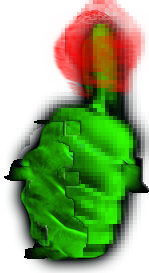
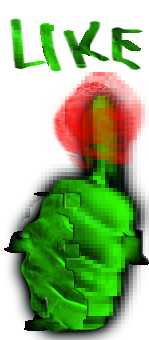
more style finessing

diff --git a/EVIL/css/style.css b/EVIL/css/style.css
@@ -52,7 +52,60 @@
   filter:saturate(100%);
 }
 
+@-webkit-keyframes flip {
+  from {
+    -webkit-transform: perspective(400px) scale3d(1, 1, 1) translate3d(0, 0, 0)
+      rotate3d(0, 1, 0, -360deg);
+    transform: perspective(400px) scale3d(1, 1, 1) translate3d(0, 0, 0) rotate3d(0, 1, 0, -360deg);
+    -webkit-animation-timing-function: ease-out;
+    animation-timing-function: ease-out;
+  }
 
+  40% {
+    -webkit-transform: perspective(400px) scale3d(1, 1, 1) translate3d(0, 0, 150px)
+      rotate3d(0, 1, 0, -190deg);
+    transform: perspective(400px) scale3d(1, 1, 1) translate3d(0, 0, 150px)
+      rotate3d(0, 1, 0, -190deg);
+    -webkit-animation-timing-function: ease-out;
+    animation-timing-function: ease-out;
+  }
+
+  50% {
+    -webkit-transform: perspective(400px) scale3d(1, 1, 1) translate3d(0, 0, 150px)
+      rotate3d(0, 1, 0, -170deg);
+    transform: perspective(400px) scale3d(1, 1, 1) translate3d(0, 0, 150px)
+      rotate3d(0, 1, 0, -170deg);
+    -webkit-animation-timing-function: ease-in;
+    animation-timing-function: ease-in;
+  }
+
+  80% {
+    -webkit-transform: perspective(400px) scale3d(0.95, 0.95, 0.95) translate3d(0, 0, 0)
+      rotate3d(0, 1, 0, 0deg);
+    transform: perspective(400px) scale3d(0.95, 0.95, 0.95) translate3d(0, 0, 0)
+      rotate3d(0, 1, 0, 0deg);
+    -webkit-animation-timing-function: ease-in;
+    animation-timing-function: ease-in;
+  }
+
+  to {
+    -webkit-transform: perspective(400px) scale3d(1, 1, 1) translate3d(0, 0, 0)
+      rotate3d(0, 1, 0, 0deg);
+    transform: perspective(400px) scale3d(1, 1, 1) translate3d(0, 0, 0) rotate3d(0, 1, 0, 0deg);
+    -webkit-animation-timing-function: ease-in;
+    animation-timing-function: ease-in;
+  }
+}
+
+@keyframes zoink {
+	0% {
+		transform: translate(0px,0);
+	}
+
+	100% {
+		transform: translate(5000px, 0);
+	}
+}
 #homepage {
   background: black;
 
@@ -90,7 +143,7 @@
   opacity: 0;
   z-index: 300;
   margin-left: 100px;
-  animation: mackeeper 1s infinite linear;
+  animation: flip 1s infinite linear;
   position: fixed;
 }
 
@@ -105,13 +158,32 @@
 
 }
 
+#uzi {
+  opacity: 0;
+  margin-left: 70%;
+  margin-top: 25%;
+  z-index: 3000;
+	transform: scale(1.5);
+    position:fixed;
+
+}
+
+#uzi:hover {
+	animation: flip 6s infinite linear;
+}
 #eyes {
   opacity: 0;
   z-index: 2000;
+	margin-left: 20%;
+	margin-top: 30%;
     position:absolute;
-      animation: roach 3s infinite linear;
-
+    animation: mackeeper 1s infinite linear;
 }
+
+#eyes:hover{
+	    animation: zoink 1s infinite linear;
+}
+
 #demons {
 margin-top: 36%;
 margin-left: 80%;
@@ -146,6 +218,19 @@ position: absolute;
   transition: visibility 0s 0.5s, opacity 0.5s linear;
 }
 
+#play{
+	position:fixed;
+	left:45%;
+	top: 30%;
+	z-index: 4000;
+	opacity: 0.5;
+}
+
+#play:hover {
+
+	transform:scale(1.1);
+	opacity: 1;
+}
 video {
   position:fixed;
   margin-left:10%;

diff --git a/EVIL/video.html b/EVIL/video.html
@@ -1,0 +1,65 @@
+<!DOCTYPE html>
+<html>
+<head>
+  <meta charset="utf-8">
+  <meta name="viewport" width=device-width, initial-scale=1.0, maximum-scale=1.0, user-scalable=0>
+
+  <!-- CSS stylesheet(s) -->
+  <link rel="stylesheet" type="text/css" href="css/style.css" />
+
+  <!-- Libraries -->
+  <script
+  src="https://code.jquery.com/jquery-3.3.1.min.js"
+  integrity="sha256-FgpCb/KJQlLNfOu91ta32o/NMZxltwRo8QtmkMRdAu8="
+  crossorigin="anonymous"></script>
+
+  <link rel="stylesheet" type="text/css" href="https://code.jquery.com/ui/1.12.1/themes/base/jquery-ui.css" />
+  <script
+  src="https://code.jquery.com/ui/1.12.1/jquery-ui.min.js"
+  integrity="sha256-VazP97ZCwtekAsvgPBSUwPFKdrwD3unUfSGVYrahUqU="
+  crossorigin="anonymous"></script>
+
+
+
+  <script src="js/script.js"></script>
+</head>
+
+
+
+
+
+
+<body>
+  <!-- Images that will be manipulated via jQuery and jQueryUI -->
+<div id="hideme">
+  <img id="thumbsup" src="assets/images/thumbsup.png">
+  <img id="thumbsdown" src="assets/images/thumbsdown.png">
+  <img id="play" src="assets/images/play.png" alt="">
+  <img id="clorox" src="assets/images/clorox2.png" alt="">
+  <img id="mackeeper" src="assets/images/mackeeper.png">
+  <img id="eyes" src="assets/images/fatalerror.png" alt=""/>
+  <img id="demons" src="assets/images/flygif.gif" alt=""/>
+<img id="uzi" src="assets/images/uzirotate.gif" alt=""/>
+</div>
+<div id="videos">
+
+  <video class="visible" loop width="80%" height="80%" >
+  <source src="assets/videos/busytown10.mp4" type=""></video>
+
+  <video class="visible" loop width="80%" height="80%" >
+  <source src="assets/videos/busytown99.mp4" type=""></video>
+
+  <video class="visible" loop width="80%" height="80%" >
+  <source src="assets/videos/busytown8.mp4" type=""></video>
+
+  <video class="visible" loop width="80%" height="80%" >
+  <source src="assets/videos/busytown1_1redux.mp4" type=""></video>
+
+  <video id="test" class="visible" loop width="80%" height="80%" >
+  <source src="assets/videos/busytown1.mp4" type=""></video>
+
+</div>
+
+</body>
+
+</html>

diff --git a/EVIL/js/script.js b/EVIL/js/script.js
@@ -28,10 +28,12 @@ let $eyes;
 let $demons;
 let $mackeeper;
 let $currentImage;
-let images = ['#mackeeper', '#clorox', '#eyes', '#demons'];
+let images = ['#mackeeper', '#clorox', '#eyes', '#demons','#uzi'];
 let $fuck;
 let $like;
 let $clorox;
+let $uzi;
+let $play;
 
 $(document).ready(setup);
 
@@ -45,7 +47,7 @@ $(document).ready(setup);
 
 function setup() {
 
-  $(document).on('click',function () {
+  $('#play').on('click',function () {
     $('video').each(function () {
       $(this).get(0).play();
     });
@@ -67,6 +69,12 @@ function setup() {
 ///telling the program to use my secret mouseover function on mouseover
   $video = $('video');
 
+$play = $('#play');
+
+$('#play').click(function(){
+  $play.remove();
+});
+
   $( "#mackeeper" ).draggable();
 
     $( "#clorox" ).draggable();
@@ -83,13 +91,15 @@ let currentImageId = images[Math.floor(Math.random()*images.length)];
 $fuck = $('#fuck');
 $like = $('#like');
 $clorox = $('#clorox');
+$uzi = $('#uzi');
 $like.on('mouseover',wordSwap);
 $like.on('mouseout',text);
 $fuck.on('mouseover', wordSwap2);
 $fuck.on('mouseout', text2);
 $clorox.on('mouseover',bleachSwap);
 $clorox.on('mouseout',bleachReverse);
-
+$uzi.on ('mouseover',uziSwap);
+$uzi.on('mouseout',uziReverse);
 }
 
 
@@ -142,6 +152,7 @@ function thumbsdownClicked(){
 let currentImageId = images[Math.floor(Math.random()*images.length)];
 
        //
+       $(currentImageId).append('body');
        $(currentImageId).css("opacity", 1);
        $(currentImageId).addClass( "visible2" );
 
@@ -177,4 +188,14 @@ $(clorox).attr("src","assets/images/bleachcup.png");
 function bleachReverse() {
 console.log("hello");
 $(clorox).attr("src","assets/images/clorox2.png");
+}
+
+function uziSwap() {
+console.log("hello");
+$(uzi).attr("src","assets/images/explosionlaptop.gif");
+}
+
+function uziReverse() {
+console.log("hello");
+$(uzi).attr("src","assets/images/uzirotate.gif");
 }

diff --git a/EVIL/index.html b/EVIL/index.html
@@ -1,3 +1,4 @@
+
 <!DOCTYPE html>
 <html>
 <head>
@@ -5,7 +6,7 @@
   <meta name="viewport" width=device-width, initial-scale=1.0, maximum-scale=1.0, user-scalable=0>
 
   <!-- CSS stylesheet(s) -->
-  <link rel="stylesheet" type="text/css" href="css/style.css" />
+  <link rel="stylesheet" type="text/css" href="css/style2.css" />
 
   <!-- Libraries -->
   <script
@@ -24,41 +25,12 @@
   <script src="js/script.js"></script>
 </head>
 
+  <body>
+  <a href="video.html">
+<h1 id="FUCKYOU">BRAIN DETERGENT</h1>
+<h2 id="LIKEME"><span id="like">CLICK</span> TO BEGIN</h2>
+</a>
 
-
-
-
-
-<body>
-  <!-- Images that will be manipulated via jQuery and jQueryUI -->
-  <img id="thumbsup" src="assets/images/thumbsup.png">
-  <img id="thumbsdown" src="assets/images/thumbsdown.png">
-
-  <img id="clorox" src="assets/images/clorox2.png" alt="">
-  <img id="mackeeper" src="assets/images/mackeeper.png">
-  <img id="eyes" src="assets/images/roach.gif" alt=""/>
-    <img id="demons" src="assets/images/flygif.gif" alt=""/>
-
-
-<div id="videos">
-
-  <video class="visible" loop width="80%" height="80%" >
-  <source src="assets/videos/busytown10.mp4" type=""></video>
-
-  <video class="visible" loop width="80%" height="80%" >
-  <source src="assets/videos/busytown99.mp4" type=""></video>
-
-  <video class="visible" loop width="80%" height="80%" >
-  <source src="assets/videos/busytown8.mp4" type=""></video>
-
-  <video class="visible" loop width="80%" height="80%" >
-  <source src="assets/videos/busytown1_1redux.mp4" type=""></video>
-
-  <video id="test" class="visible" loop width="80%" height="80%" >
-  <source src="assets/videos/busytown1.mp4" type=""></video>
-
-</div>
-
-</body>
-
+<a href="video.html"> <img src="assets/images/braincollapse.gif" alt=""></a>
+  </body>
 </html>

diff --git a/EVIL/css/style2.css b/EVIL/css/style2.css
@@ -5,27 +5,45 @@ body{
 
 h1 {
   font-family: "Kids";
-  font-size: 200px;
+  font-size: 150px;
   text-align: center;
+  color: white;
+  text-decoration: none;
 }
 
 
 h2{
   font-family: "Kids";
-  font-size: 200px;
+  font-size: 150px;
   text-align: center;
+  color: white;
+  text-decoration: none;
 
 }
 
 h3{
   font-family: "Kids";
-  font-size: 100px;
+  font-size: 150px;
   text-align: center;
-
+  color: white;
+  text-decoration: none;
 
 }
 
+a{
+  text-decoration: none;
+}
 @font-face {
   font-family: "Kids";
   src: url("../assets/fonts/Kid_Font_.ttf") format("truetype");
+}
+
+img{
+  left: 43%;
+  position: absolute;
+  top: 65%;
+}
+
+img:hover{
+  transform: scale(1.5);
 }
